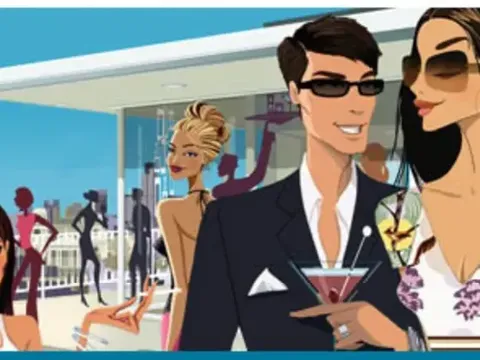
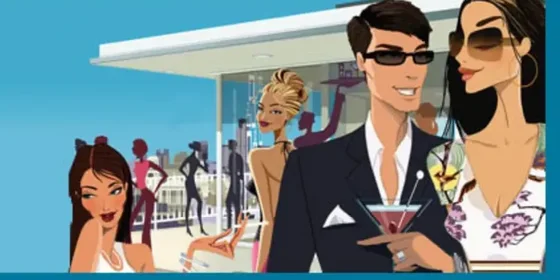
Re-crop timeline illustrations so faces are not cut off

diff --git a/src/views/home.js b/src/views/home.js
@@ -68,13 +68,13 @@ export function homePage(cfg, state, programs, catalog) {
     </div>
     <p><a class="textlink" href="/about">Read the original RSD company bio →</a></p>
     <ol class="timeline">
-      <li><span class="tl-year">2007</span><img class="tl-img" src="/img/banners/thumb-home-study.webp" alt="Studying RSD home study courses" loading="lazy" width="480" height="360"><div>${label('history')}<p>RSD's blog identifies <strong>Foundations</strong>, the multi-instructor <strong>Transformations</strong>, and <strong>The Jeffy Show</strong> as recorded programs.</p></div></li>
-      <li><span class="tl-year">2007</span><img class="tl-img" src="/img/banners/thumb-bootcamp.webp" alt="An RSD bootcamp" loading="lazy" width="480" height="360"><div>${label('history')}<p>Tyler describes Foundations as the recorded version of his conference material and says his later bootcamps and products assumed familiarity with it.</p></div></li>
-      <li><span class="tl-year">2008</span><img class="tl-img" src="/img/banners/thumb-blueprint-book.webp" alt="The Blueprint book" loading="lazy" width="480" height="360"><div>${label('history')}<p>The multi-day <strong>Blueprint</strong> presentation is discussed on the RSD blog: a connected framework rather than isolated tips.</p></div></li>
-      <li><span class="tl-year">2014–18</span><img class="tl-img" src="/img/banners/thumb-signup.webp" alt="Signing up for RSD" loading="lazy" width="480" height="360"><div>${label('history')}<p>Official sales pages for <strong>PIMP</strong> (captured 2014), <strong>SHIFT</strong> (2015), <strong>Social Circle Blueprint</strong> (2017), and <strong>The Resonator</strong> (2017) are preserved in the Internet Archive.</p></div></li>
-      <li><span class="tl-year">2026</span><img class="tl-img" src="/img/banners/thumb-about.webp" alt="RSD today" loading="lazy" width="480" height="360"><div>${label('policy')}<p>The archive reopens, curated for study and comparison, with a live Success Coaching Call from a current coach.</p></div></li>
-      ${(cfg.liveEvents || []).length ? html`<li><span class="tl-year">Live</span><img class="tl-img" src="/img/banners/thumb-seminars.webp" alt="An RSD seminar" loading="lazy" width="480" height="360"><div>${label('live')}<p>Take it off the screen. RSD live events are open now:</p><ul class="live-links">${cfg.liveEvents.map((e) => html`<li><a href="${e.url}" rel="noopener" target="_blank"><strong>${e.label}</strong></a>: ${e.blurb}</li>`)}</ul><p class="small">Live events are sold separately and are not included in the archive package.</p></div></li>` : ''}
-      <li><span class="tl-year">Next</span><img class="tl-img" src="/img/banners/thumb-news.webp" alt="RSD news" loading="lazy" width="480" height="360"><div>${label('planned')}<p><strong>A new global RSD Nation.</strong> RSD is partnering with PUA Training, celebrity dating coaches, and other dating-coaching companies to build an entirely new global RSD Nation, with a new series of immersion programs, bootcamps, phone coaching, and more.*</p><p>${cfg.supportPhone ? html`<strong>Call us for details: ${supportPhoneLink(cfg)}</strong>${cfg.supportEmail ? html` or email ${supportEmailLink(cfg)}` : ''}` : ''}</p><p class="small">*We are actively recruiting new coaches.${cfg.supportPhone ? html` Interested? Call ${supportPhoneLink(cfg)}.` : ''}</p></div></li>
+      <li><span class="tl-year">2007</span><img class="tl-img" src="/img/banners/thumb-home-study.webp?v=2" alt="Studying RSD home study courses" loading="lazy" width="560" height="280"><div>${label('history')}<p>RSD's blog identifies <strong>Foundations</strong>, the multi-instructor <strong>Transformations</strong>, and <strong>The Jeffy Show</strong> as recorded programs.</p></div></li>
+      <li><span class="tl-year">2007</span><img class="tl-img" src="/img/banners/thumb-bootcamp.webp?v=2" alt="An RSD bootcamp" loading="lazy" width="560" height="280"><div>${label('history')}<p>Tyler describes Foundations as the recorded version of his conference material and says his later bootcamps and products assumed familiarity with it.</p></div></li>
+      <li><span class="tl-year">2008</span><img class="tl-img" src="/img/banners/thumb-blueprint-book.webp?v=2" alt="The Blueprint book" loading="lazy" width="560" height="280"><div>${label('history')}<p>The multi-day <strong>Blueprint</strong> presentation is discussed on the RSD blog: a connected framework rather than isolated tips.</p></div></li>
+      <li><span class="tl-year">2014–18</span><img class="tl-img" src="/img/banners/thumb-signup.webp?v=2" alt="Signing up for RSD" loading="lazy" width="560" height="280"><div>${label('history')}<p>Official sales pages for <strong>PIMP</strong> (captured 2014), <strong>SHIFT</strong> (2015), <strong>Social Circle Blueprint</strong> (2017), and <strong>The Resonator</strong> (2017) are preserved in the Internet Archive.</p></div></li>
+      <li><span class="tl-year">2026</span><img class="tl-img" src="/img/banners/thumb-about.webp?v=2" alt="RSD today" loading="lazy" width="560" height="280"><div>${label('policy')}<p>The archive reopens, curated for study and comparison, with a live Success Coaching Call from a current coach.</p></div></li>
+      ${(cfg.liveEvents || []).length ? html`<li><span class="tl-year">Live</span><img class="tl-img" src="/img/banners/thumb-seminars.webp?v=2" alt="An RSD seminar" loading="lazy" width="560" height="280"><div>${label('live')}<p>Take it off the screen. RSD live events are open now:</p><ul class="live-links">${cfg.liveEvents.map((e) => html`<li><a href="${e.url}" rel="noopener" target="_blank"><strong>${e.label}</strong></a>: ${e.blurb}</li>`)}</ul><p class="small">Live events are sold separately and are not included in the archive package.</p></div></li>` : ''}
+      <li><span class="tl-year">Next</span><img class="tl-img" src="/img/banners/thumb-news.webp?v=2" alt="RSD news" loading="lazy" width="560" height="280"><div>${label('planned')}<p><strong>A new global RSD Nation.</strong> RSD is partnering with PUA Training, celebrity dating coaches, and other dating-coaching companies to build an entirely new global RSD Nation, with a new series of immersion programs, bootcamps, phone coaching, and more.*</p><p>${cfg.supportPhone ? html`<strong>Call us for details: ${supportPhoneLink(cfg)}</strong>${cfg.supportEmail ? html` or email ${supportEmailLink(cfg)}` : ''}` : ''}</p><p class="small">*We are actively recruiting new coaches.${cfg.supportPhone ? html` Interested? Call ${supportPhoneLink(cfg)}.` : ''}</p></div></li>
     </ol>
   </div>
 </section>

diff --git a/public/css/site.css b/public/css/site.css
@@ -457,7 +457,7 @@ body:not(.show-notes) .terms-mini > div:has(.token) { display: none !important; 
 
 /* Timeline images */
 .timeline li { grid-template-columns: 110px 200px 1fr; align-items: start; }
-.tl-img { width: 200px; height: 150px; object-fit: cover; border-radius: 3px; display: block; }
+.tl-img { width: 240px; height: 120px; object-fit: cover; border-radius: 3px; display: block; }
 @media (max-width: 760px) {
   .timeline li { grid-template-columns: 1fr; }
   .tl-img { width: 100%; height: auto; max-width: 420px; }
